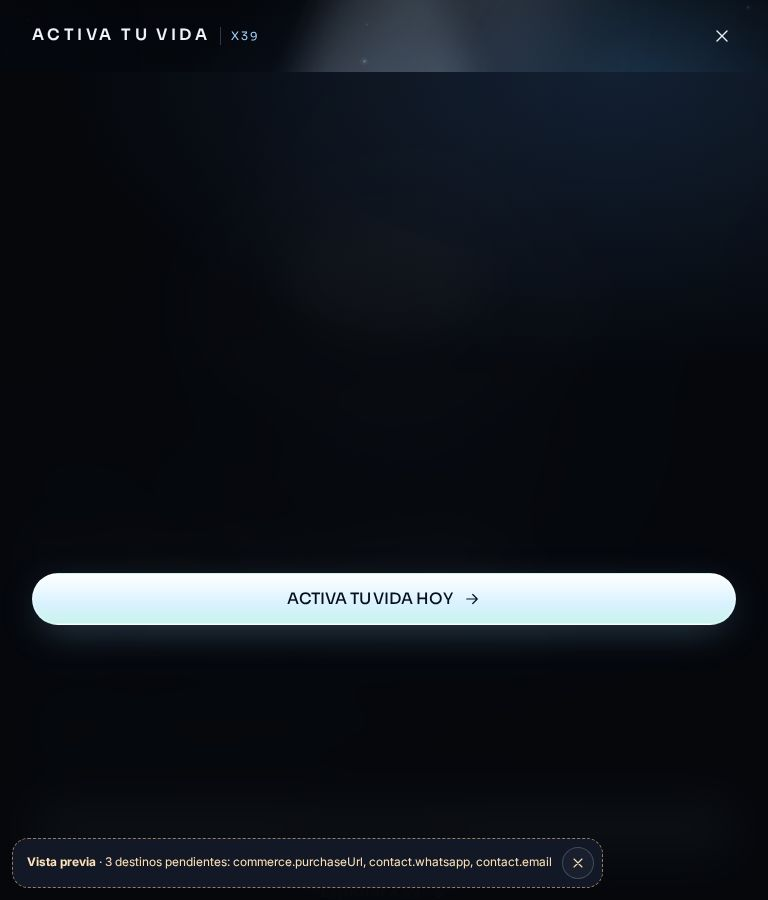
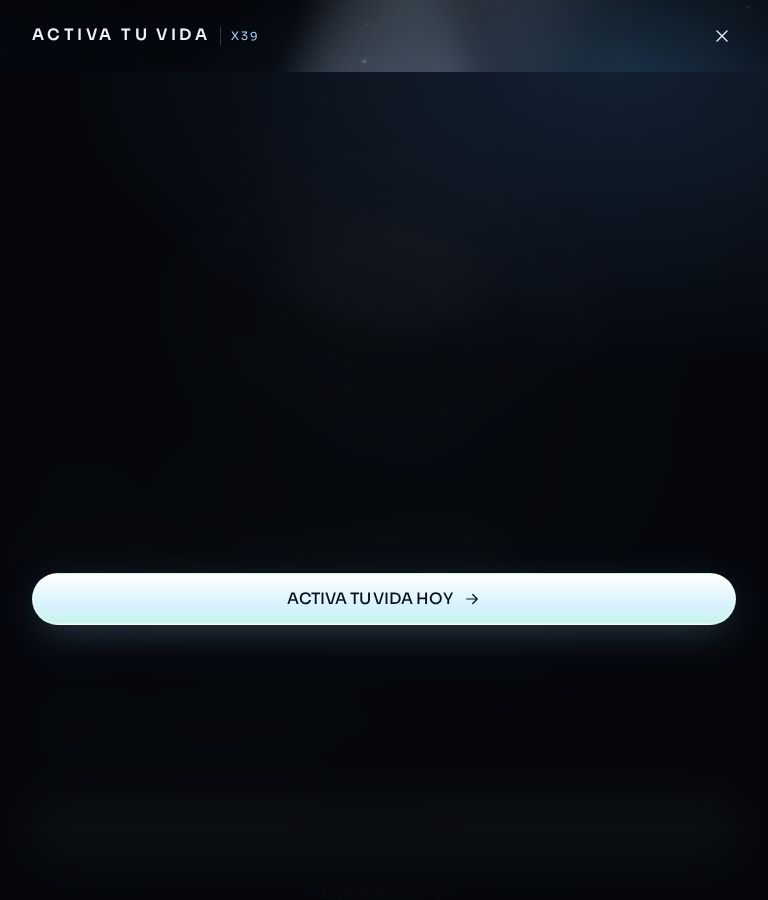
feat(x39): enlaces de compra, socio y WhatsApp; quitar botón de correo
Claude-Session: https://claude.ai/code/session_01SGHyY9TKSi31c9NfQ2AcQT

Changed region(s): [[0.0, 0.9333, 0.7812, 0.9956]]

diff --git a/sites/activatuvida/src/styles/main.css b/sites/activatuvida/src/styles/main.css
@@ -754,7 +754,6 @@ details[open] > summary .acc__icon::after { transform: rotate(0); }
 .h-display--closing { font-size: clamp(2.5rem, 10vw, 7rem); margin-bottom: 1.4rem; }
 .h-display--closing span:last-child { background: linear-gradient(100deg, #fff, var(--ice) 50%, var(--cyan)); -webkit-background-clip: text; background-clip: text; color: transparent; }
 .closing .lead { margin-inline: auto; }
-.closing__who { margin-top: 1.6rem; color: var(--text-2); }
 
 /* --- Footer ---------------------------------------------------------- */
 .site-footer { border-top: 1px solid var(--line); padding: 56px 0 calc(40px + env(safe-area-inset-bottom)); background: #030407; }

diff --git a/sites/activatuvida/docs/DESPLIEGUE.md b/sites/activatuvida/docs/DESPLIEGUE.md
@@ -27,7 +27,7 @@ Coste: plan gratuito de Cloudflare (Workers Free incluye 100 000 peticiones/día
 
 ```bash
 cd sites/activatuvida
-# 1) Completa site.config.mjs: commerce.purchaseUrl, contact.whatsapp, contact.email, distributor.*
+# 1) Completa site.config.mjs: revisa commerce.purchaseUrl, commerce.joinUrl, contact.whatsappUrl y distributor.*
 # 2) Build de producción y validación:
 npm run build:production
 npm run check                 # validación estática

diff --git a/sites/activatuvida/README.md b/sites/activatuvida/README.md
@@ -39,9 +39,7 @@ npm run build:production
 
 En `site.config.mjs`:
 
-- `commerce.purchaseUrl`: tu enlace personal de LifeWave.
-- `contact.whatsapp`: número internacional, solo dígitos.
-- `contact.email`
+- `contact.email` (opcional; aparece en el pie si se completa).
 - `distributor.location` (opcional).
 - En `deploy/wrangler.toml`: `CANVA_ORIGIN` (dominio gratuito de tu web de Canva).
 
